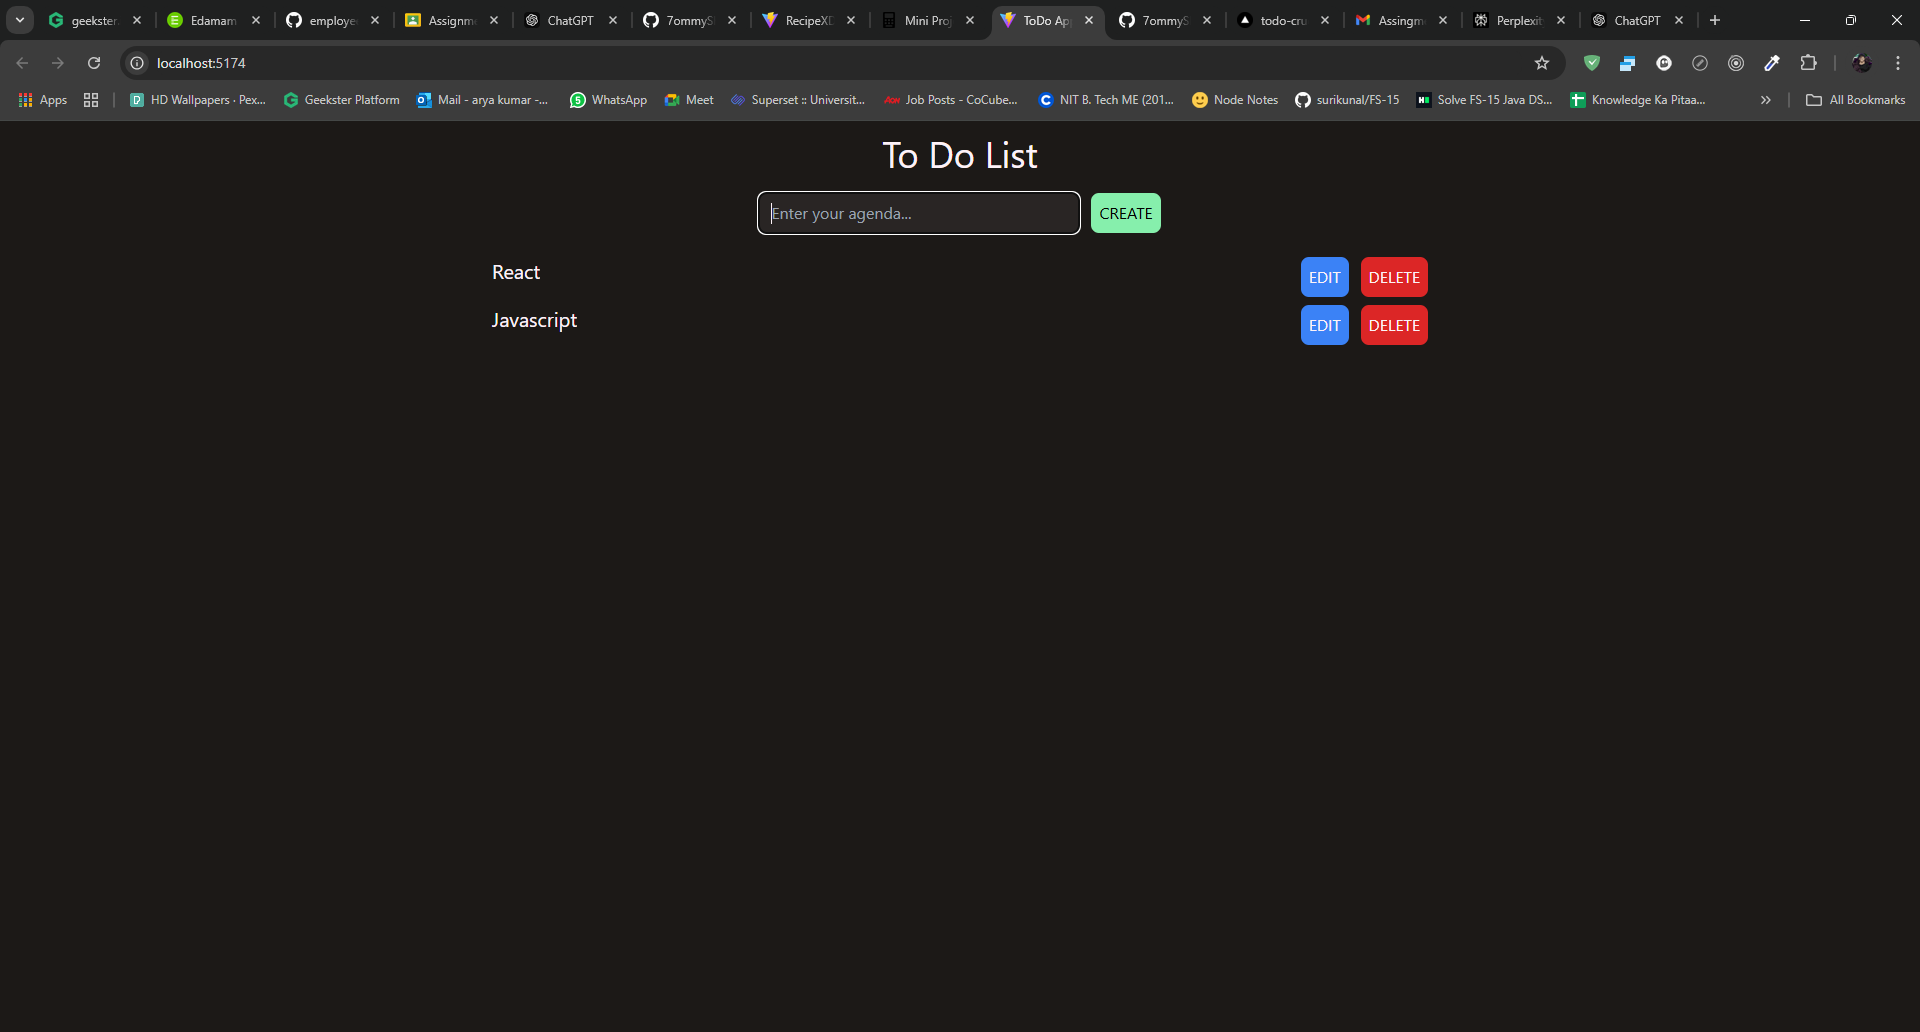
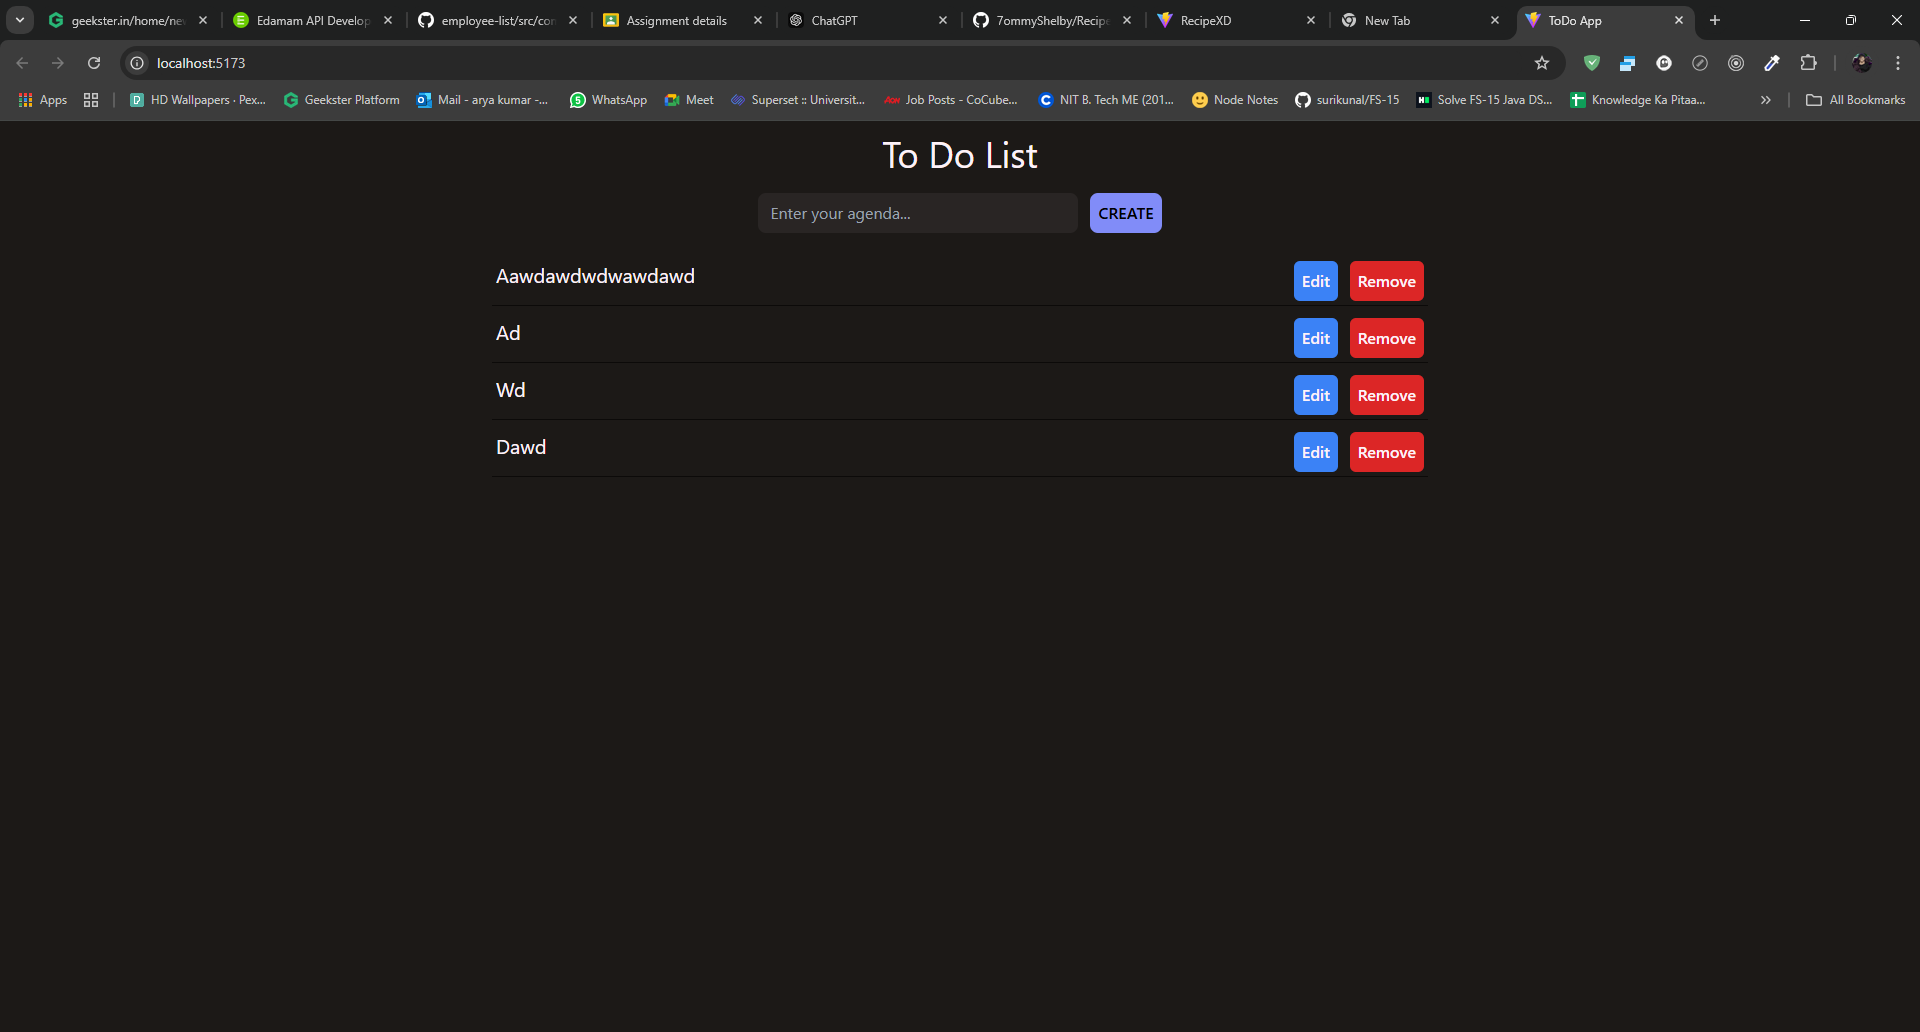
up2

diff --git a/src/App.jsx b/src/App.jsx
@@ -49,20 +49,20 @@ function App() {
         <div className='w-full items-center gap-4 flex flex-col mt-4'>
           <form onSubmit={submithandler} className='flex gap-3 flex-wrap justify-center' action="">
             <input value={task} onChange={(e) => { setTask(e.target.value) }} className='w-80 px-3 py-1 bg-stone-800 rounded-lg' type="text" name="" placeholder='Enter your agenda...' id="" />
-            <button className='bg-green-300 rounded-lg p-2 text-black'>{curr ? "UPDATE" : "CREATE"}</button>
+            <button className='bg-indigo-400 rounded-lg p-2 font-semibold text-black'>{curr ? "UPDATE" : "CREATE"}</button>
           </form>
 
-          <div className='w-[50%] list overflow-y-scroll h-[80vh]'>
+          <div className='md:w-[50%] w-full list overflow-y-scroll h-[80vh]'>
             {
               list.length != 0 ?
                 list.map((e, idx) => {
                   return (
                     <>
-                      <div className='flex justify-between m-2 flex-wrap'>
+                      <div className='flex justify-between m-2 flex-wrap border-b-[1px] border-stone-950 p-1'>
                         <p className='capitalize text-xl'>{e}</p>
                         <div className='flex gap-3'>
-                          <button className='p-2 rounded-lg bg-blue-500 hover:scale-110 hover:bg-blue-800' onClick={() => { editHandler(idx) }}>EDIT</button>
-                          <button className='p-2 rounded-lg bg-red-600 hover:scale-110 hover:bg-red-800' onClick={() => { deleteHandler(idx) }}>DELETE</button>
+                          <button className='p-2 rounded-md bg-blue-500 hover:scale-110 hover:bg-blue-800 font-semibold' onClick={() => { editHandler(idx) }}>Edit</button>
+                          <button className='p-2 rounded-md bg-red-600 hover:scale-110 hover:bg-red-800 font-semibold' onClick={() => { deleteHandler(idx) }}>Remove</button>
                         </div>
                       </div>
                     </>
